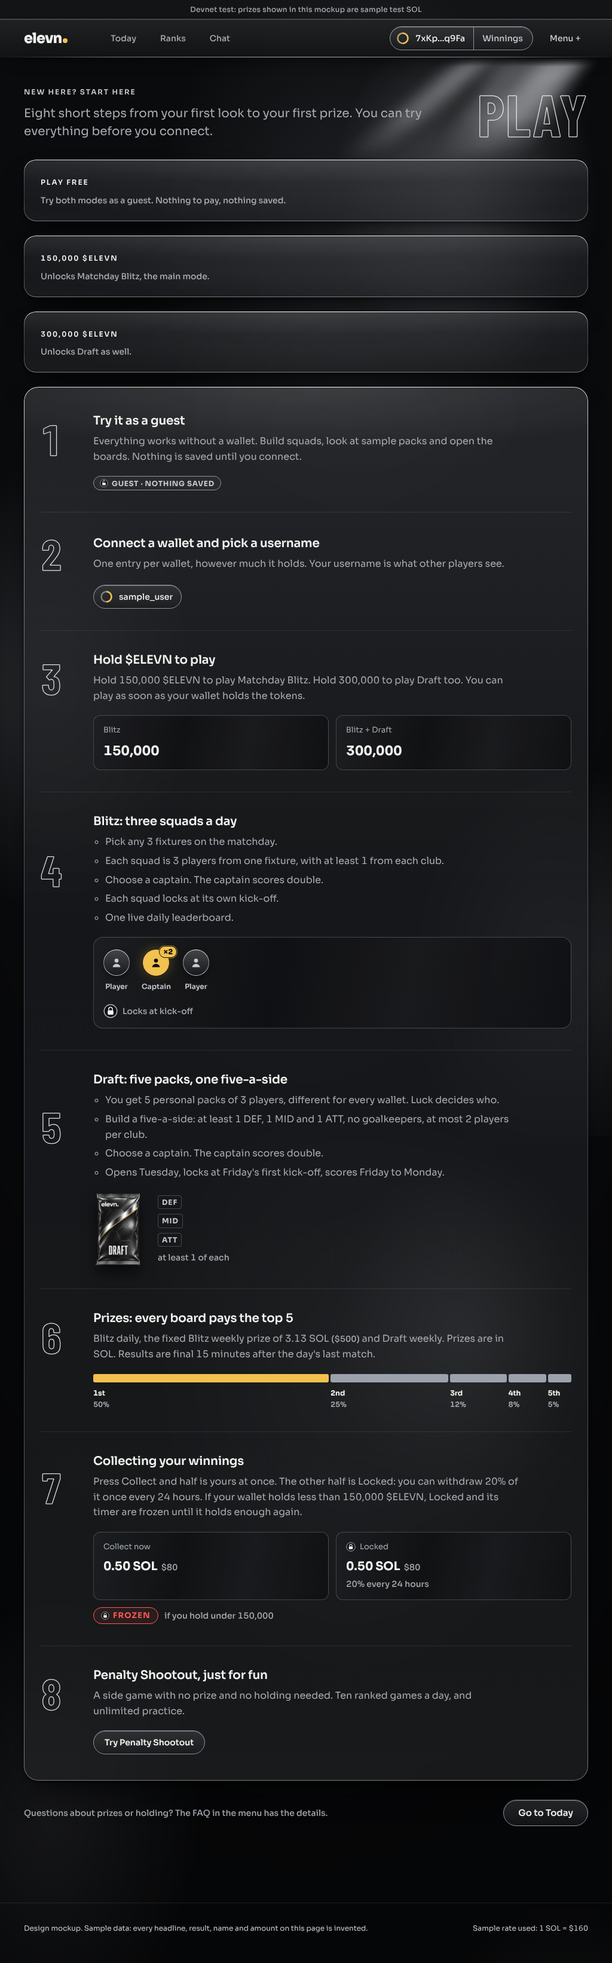
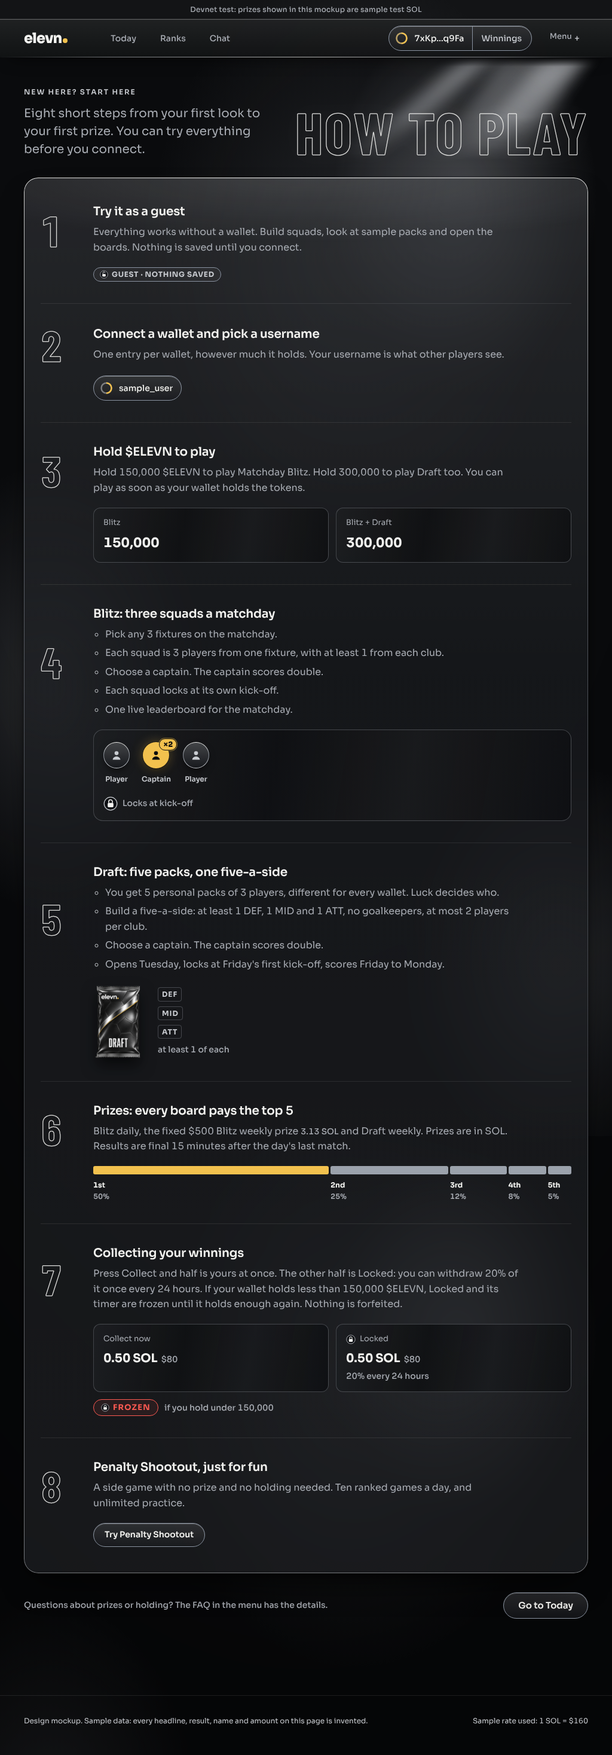
Mockups, work in progress: review changes to News, How to play and the side menu
Claude-Session: https://claude.ai/code/session_012GbKymxq8Mwy7J7Kp4CrmR

diff --git a/docs/design/mockups/how-to-play.html b/docs/design/mockups/how-to-play.html
@@ -2,23 +2,17 @@
 <html lang="en"><head><meta charset="utf-8"><meta name="viewport" content="width=device-width, initial-scale=1">
 <title>How to play · elevn mockup</title>
 <link rel="preconnect" href="https://fonts.googleapis.com"><link rel="preconnect" href="https://fonts.gstatic.com" crossorigin>
-<link rel="stylesheet" href="mock.css"><link rel="stylesheet" href="info-how.css"></head>
+<link rel="stylesheet" href="mock.css"><link rel="stylesheet" href="info-how.css"><link rel="stylesheet" href="menu.css"><script src="menu.js" defer></script></head>
 <body>
 <div class="devnet">Devnet test: prizes shown in this mockup are sample test SOL</div>
 <header class="nav"><div class="wrap">
-<a class="logo" href="index.html">elevn<i></i></a>
+<a class="logo" href="home.html">elevn<i></i></a>
 <nav class="links" aria-label="Main"><a href="today.html">Today</a><a href="ranks.html">Ranks</a><a href="chat.html">Chat</a></nav>
 <div class="right"><div class="wchip"><a href="#"><svg width="22" height="22" viewBox="0 0 22 22" role="img" aria-label="Blitz and Draft unlocked"><circle cx="11" cy="11" r="8.5" fill="none" stroke="rgba(255,255,255,.4)" stroke-width="2.5"/><path d="M11 2.5 A8.5 8.5 0 0 1 11 19.5" fill="none" stroke="#f2c14e" stroke-width="2.5"/><path d="M11 19.5 A8.5 8.5 0 0 1 11 2.5" fill="none" stroke="#f2c14e" stroke-width="2.5" stroke-dasharray="26.7" stroke-dashoffset="0" opacity=".55"/></svg><span>7xKp…q9Fa</span></a><a href="winnings.html">Winnings</a></div><a class="menu" href="#">Menu +</a></div>
 </div></header>
 <main class="wrap">
 <div class="rays" aria-hidden="true"><i></i><i></i><i></i><i></i><i></i></div>
-<div class="ph"><div><span class="eyebrow">New here? Start here</span><p class="lead">Eight short steps from your first look to your first prize. You can try everything before you connect.</p></div><div class="w"><h1 class="word">Play</h1></div></div>
-
-<div class="hw-facts" role="list">
-<div class="glass" role="listitem"><span class="eyebrow">Play free</span><p class="small">Try both modes as a guest. Nothing to pay, nothing saved.</p></div>
-<div class="glass" role="listitem"><span class="eyebrow">150,000 $ELEVN</span><p class="small">Unlocks Matchday Blitz, the main mode.</p></div>
-<div class="glass" role="listitem"><span class="eyebrow">300,000 $ELEVN</span><p class="small">Unlocks Draft as well.</p></div>
-</div>
+<div class="ph"><div><span class="eyebrow">New here? Start here</span><p class="lead">Eight short steps from your first look to your first prize. You can try everything before you connect.</p></div><div class="w"><h1 class="word">How to play</h1></div></div>
 
 <ol class="hw-steps card">
 
@@ -35,8 +29,8 @@
 <div class="hw-v"><div class="hw-tiers"><div><span class="lbl">Blitz</span><b>150,000</b></div><div><span class="lbl">Blitz + Draft</span><b>300,000</b></div></div></div></li>
 
 <li class="hw-step" id="s4"><span class="hw-n" aria-hidden="true">4</span>
-<div class="hw-t"><h2 class="h3">Blitz: three squads a day</h2>
-<ul class="hw-list muted"><li>Pick any 3 fixtures on the matchday.</li><li>Each squad is 3 players from one fixture, with at least 1 from each club.</li><li>Choose a captain. The captain scores double.</li><li>Each squad locks at its own kick-off.</li><li>One live daily leaderboard.</li></ul></div>
+<div class="hw-t"><h2 class="h3">Blitz: three squads a matchday</h2>
+<ul class="hw-list muted"><li>Pick any 3 fixtures on the matchday.</li><li>Each squad is 3 players from one fixture, with at least 1 from each club.</li><li>Choose a captain. The captain scores double.</li><li>Each squad locks at its own kick-off.</li><li>One live leaderboard for the matchday.</li></ul></div>
 <div class="hw-v"><div class="hw-sq"><span class="hw-tk"><span class="tok"></span><span class="nm">Player</span></span><span class="hw-tk"><span class="tok gold"><span class="cap">×2</span></span><span class="nm">Captain</span></span><span class="hw-tk"><span class="tok"></span><span class="nm">Player</span></span><span class="hw-lk"><span class="lock" aria-hidden="true"></span><span class="small muted">Locks at kick-off</span></span></div></div></li>
 
 <li class="hw-step" id="s5"><span class="hw-n" aria-hidden="true">5</span>
@@ -45,13 +39,13 @@
 <div class="hw-v"><div class="hw-pk"><img src="art/pack.png" alt="A Draft pack" width="84" height="126"><div class="hw-pos" aria-label="Positions needed"><span class="pos">DEF</span><span class="pos">MID</span><span class="pos">ATT</span><span class="small muted">at least 1 of each</span></div></div></div></li>
 
 <li class="hw-step" id="s6"><span class="hw-n" aria-hidden="true">6</span>
-<div class="hw-t"><h2 class="h3">Prizes: every board pays the top 5</h2><p class="muted">Blitz daily, the fixed Blitz weekly prize of 3.13 SOL <span class="usd" style="margin-left:0">($500)</span> and Draft weekly. Prizes are in SOL. Results are final 15 minutes after the day's last match.</p></div>
+<div class="hw-t"><h2 class="h3">Prizes: every board pays the top 5</h2><p class="muted">Blitz daily, the fixed $500 Blitz weekly prize <span class="usd" style="margin-left:0">3.13 SOL</span> and Draft weekly. Prizes are in SOL. Results are final 15 minutes after the day's last match.</p></div>
 <div class="hw-v"><div class="hw-split" role="img" aria-label="Prize split: 1st 50 percent, 2nd 25, 3rd 12, 4th 8, 5th 5">
 <div class="bar"><i style="flex:50"></i><i style="flex:25"></i><i style="flex:12"></i><i style="flex:8"></i><i style="flex:5"></i></div>
 <div class="lab"><span style="flex:50"><b>1st</b> 50%</span><span style="flex:25"><b>2nd</b> 25%</span><span style="flex:12"><b>3rd</b> 12%</span><span style="flex:8"><b>4th</b> 8%</span><span style="flex:5"><b>5th</b> 5%</span></div></div></div></li>
 
 <li class="hw-step" id="s7"><span class="hw-n" aria-hidden="true">7</span>
-<div class="hw-t"><h2 class="h3">Collecting your winnings</h2><p class="muted">Press Collect and half is yours at once. The other half is Locked: you can withdraw 20% of it once every 24 hours. If your wallet holds less than 150,000 $ELEVN, Locked and its timer are frozen until it holds enough again.</p></div>
+<div class="hw-t"><h2 class="h3">Collecting your winnings</h2><p class="muted">Press Collect and half is yours at once. The other half is Locked: you can withdraw 20% of it once every 24 hours. If your wallet holds less than 150,000 $ELEVN, Locked and its timer are frozen until it holds enough again. Nothing is forfeited.</p></div>
 <div class="hw-v"><div class="hw-col"><div><span class="lbl">Collect now</span><b>0.50 SOL<span class="usd">$80</span></b></div><div><span class="lbl"><span class="lock" aria-hidden="true"></span> Locked</span><b>0.50 SOL<span class="usd">$80</span></b><span class="small muted">20% every 24 hours</span></div></div><p class="hw-fz"><span class="badge frozen">Frozen</span><span class="small muted">if you hold under 150,000</span></p></div></li>
 
 <li class="hw-step" id="s8"><span class="hw-n" aria-hidden="true">8</span>
@@ -61,4 +55,4 @@
 </ol>
 <div class="hw-end"><p class="small muted">Questions about prizes or holding? The FAQ in the menu has the details.</p><a class="btn btn-line" href="today.html">Go to Today</a></div>
 </main>
-<footer class="foot-note"><div class="wrap"><span>Design mockup. Sample data: every headline, result, name and amount on this page is invented.</span><span>Sample rate used: 1 SOL = $160</span></div></footer></body></html>
+<footer class="foot-note"><div class="wrap"><span>Design mockup. Sample data: every headline, result, name and amount on this page is invented.</span><span>Sample rate used: 1 SOL = $160</span></div></footer><script src="guest.js"></script></body></html>

diff --git a/docs/design/mockups/menu.css b/docs/design/mockups/menu.css
@@ -1,12 +1,13 @@
 /* Side menu for the elevn mockups. Needs mock.css. Injected by menu.js. */
-.menu-btn { font: inherit; border: 0; background: none; cursor: pointer; display: inline-flex; align-items: center;  gap: 4px; height: 40px; font-size: 14px; font-weight: 500; color: var(--steel); padding: 0 12px; border-radius: 999px; transition: color 150ms var(--ease), background 150ms var(--ease); }
+.menu-btn { min-width: 78px; justify-content: center; font: inherit; border: 0; background: none; cursor: pointer; display: inline-flex; align-items: center;  gap: 4px; height: 40px; font-size: 14px; font-weight: 500; color: var(--steel); padding: 0 12px; border-radius: 999px; transition: color 150ms var(--ease), background 150ms var(--ease); }
 .menu-btn:hover, .menu-btn[aria-expanded="true"] { color: var(--text); background: rgba(255,255,255,.07); }
 body.menu-open .nav { z-index: 60; }
-.menu-scrim { position: fixed; inset: 0; z-index: 50; background: rgba(4,5,7,.62); opacity: 0; visibility: hidden; transition: opacity 240ms var(--ease), visibility 0s linear 240ms; }
+html.menu-lock { overflow: hidden; }
+.menu-scrim { position: fixed; inset: 0; z-index: 50; background: rgba(4,5,7,.62); opacity: 0; visibility: hidden; transition: opacity var(--dur-normal, 240ms) var(--ease), visibility 0s linear var(--dur-normal, 240ms); }
 .menu-panel { position: fixed; z-index: 55; top: var(--menu-top, 0px); right: 0; bottom: 0; width: min(420px, 100vw); display: flex; flex-direction: column; overflow-y: auto;
-  background: var(--glass), rgba(10,11,13,.90); backdrop-filter: var(--glass-blur); -webkit-backdrop-filter: var(--glass-blur);
+  background: var(--glass), rgba(10,11,13,.99); backdrop-filter: blur(22px); -webkit-backdrop-filter: blur(22px);
   box-shadow: inset 1px 0 0 var(--steel-edge), inset 0 1px 0 rgba(255,255,255,.2), -28px 0 56px -22px rgba(0,0,0,.8);
-  transform: translateX(100%); visibility: hidden; transition: transform 300ms var(--ease), visibility 0s linear 300ms; }
+  transform: translateX(100%); visibility: hidden; transition: transform var(--dur-normal, 300ms) var(--ease), visibility 0s linear var(--dur-normal, 300ms); }
 body.menu-open .menu-scrim { opacity: 1; visibility: visible; transition-delay: 0s; }
 body.menu-open .menu-panel { transform: none; visibility: visible; transition-delay: 0s; }
 .menu-panel .mp-in { padding: 24px 32px 24px; display: flex; flex-direction: column; flex: 1; min-height: min-content; }
@@ -17,27 +18,15 @@ body.menu-open .menu-panel { transform: none; visibility: visible; transition-de
 .menu-panel .mp-main .t { display: flex; align-items: center; gap: 12px; font-family: var(--font-display); font-weight: 700; text-transform: uppercase; letter-spacing: .03em; font-size: 34px; line-height: 1.05; color: var(--text); }
 .menu-panel .mp-main .d { display: block; margin-top: 2px; font-size: 14px; line-height: 1.45; color: var(--muted); }
 .menu-panel .mp-main a:hover { background: rgba(255,255,255,.05); }
-.menu-panel .here { margin-left: auto; display: inline-flex; align-items: center; gap: 8px; font-family: var(--font-sans); font-size: 11px; font-weight: 600; letter-spacing: .14em; text-transform: uppercase; color: var(--steel); }
+.menu-panel .here { margin-left: auto; display: inline-flex; align-items: center; gap: 8px; font-family: var(--font-sans); font-size: 12px; font-weight: 600; letter-spacing: .12em; text-transform: uppercase; color: var(--steel); }
 .menu-panel .here::before { content: ""; width: 7px; height: 7px; border-radius: 50%; background: var(--accent); }
-.menu-panel .mp-more { margin-top: 20px; }
-.menu-panel .mp-more .eyebrow { display: block; margin-bottom: 8px; }
-.menu-panel .mp-more a { display: flex; align-items: center; justify-content: space-between; gap: 12px; padding: 8px 12px; margin: 0 -12px; font-size: 15px; font-weight: 500; color: var(--steel); border-radius: 6px; }
-.menu-panel .mp-more a:hover { color: var(--text); }
-.menu-panel .mp-more .ext { font-size: 13px; font-weight: 400; color: var(--muted); }
-.menu-panel .mp-wallet { margin-top: auto; padding-top: 20px; }
-.menu-panel .mp-wallet > div { border-top: 1px solid var(--steel-edge); padding-top: 20px; flex-direction: column; align-items: flex-start; gap: 14px; }
-.menu-panel .mp-wallet p { margin: 0; font-size: 14px; color: var(--muted); }
-.menu-panel .mp-wallet .row { flex-direction: row; align-items: center; justify-content: space-between; gap: 12px; }
-.menu-panel .mp-wallet .chip { display: inline-flex; align-items: center; gap: 10px; height: 40px; padding: 0 16px 0 10px; border-radius: 999px; border: 1px solid var(--edge-control); font-size: 14px; font-weight: 500; }
-.menu-panel .mp-wallet .chip svg { flex: none; }
-.menu-panel .mp-wallet .plain { font-size: 14px; font-weight: 500; color: var(--steel); padding: 8px 10px; border-radius: 999px; text-decoration: underline; text-underline-offset: 3px; }
-.menu-panel .mp-wallet .plain:hover { color: var(--text); }
-/* connected / guest switching */
-.menu-panel [data-c], .menu-panel [data-g] { display: none; }
-.menu-panel.is-conn li[data-c] { display: block; }
-.menu-panel.is-conn div[data-c] { display: flex; }
-.menu-panel:not(.is-conn) div[data-g] { display: flex; }
+/* quiet row at the bottom */
+.menu-panel .mp-foot { margin-top: auto; padding-top: 20px; border-top: 1px solid var(--steel-edge); display: flex; gap: 24px; }
+.menu-panel .mp-foot a { display: inline-flex; align-items: center; gap: 8px; min-height: 40px; font-size: 14px; font-weight: 500; color: var(--steel); border-radius: 6px; }
+.menu-panel .mp-foot a:hover { color: var(--text); }
+.sr-only { position: absolute; width: 1px; height: 1px; overflow: hidden; clip: rect(0 0 0 0); white-space: nowrap; }
 .menu-panel a:focus-visible, .menu-panel button:focus-visible, .menu-btn:focus-visible { outline: 2px solid var(--accent); outline-offset: 3px; }
 .menu-panel .mp-main a:focus-visible { outline-offset: -3px; }
-@media (max-width: 700px) { .menu-btn { padding: 0 8px; } .menu-panel { width: 100vw; } .menu-panel .mp-in { padding: 24px 20px; } .menu-panel .mp-main .t { font-size: 30px; } }
+@media (max-width: 700px) { .menu-btn { min-width: 40px; padding: 0 10px; font-size: 20px; } .menu-btn .lbl { position: absolute; width: 1px; height: 1px; overflow: hidden; clip: rect(0 0 0 0); } .menu-panel { width: 100vw; } .menu-panel .mp-in { padding: 24px 20px; } .menu-panel .mp-main .t { font-size: 30px; } }
 @media (prefers-reduced-motion: reduce) { .menu-panel, .menu-scrim { transition: none !important; } }
+.menu-panel:focus, .menu-panel:focus-visible { outline: none; }

diff --git a/docs/design/mockups/menu.js b/docs/design/mockups/menu.js
@@ -4,7 +4,7 @@
   var old = document.querySelector('.nav .right a.menu'); if (!old) return;
   var btn = document.createElement('button');
   btn.type = 'button'; btn.className = 'menu-btn'; btn.setAttribute('aria-expanded', 'false'); btn.setAttribute('aria-controls', 'side-menu'); btn.setAttribute('aria-haspopup', 'dialog');
-  var LABEL_OPEN = 'Menu <span aria-hidden="true">+</span>', LABEL_CLOSE = 'Close <span aria-hidden="true">×</span>';
+  var LABEL_OPEN = '<span class="lbl">Menu </span><span aria-hidden="true">+</span>', LABEL_CLOSE = '<span class="lbl">Close </span><span aria-hidden="true">×</span>';
   btn.innerHTML = LABEL_OPEN;
   old.replaceWith(btn);
 
@@ -24,26 +24,12 @@
   var scrim = document.createElement('div'); scrim.className = 'menu-scrim'; scrim.setAttribute('aria-hidden', 'true');
   var p = document.createElement('div'); p.className = 'menu-panel'; p.id = 'side-menu';
   p.setAttribute('role', 'dialog'); p.setAttribute('aria-modal', 'true'); p.setAttribute('aria-label', 'Menu'); p.tabIndex = -1;
-  p.innerHTML = '<div class="mp-in"><p class="mp-title" aria-hidden="true">Menu</p>' +
+  p.innerHTML = '<div class="mp-in">' +
     '<nav aria-label="Menu"><ul class="mp-main">' + main + '</ul></nav>' +
-    '<div class="mp-more"><span class="eyebrow">More</span><ul>' +
-    '<li><a href="shootout.html"' + here('shootout.html') + '>Penalty Shootout' + mark('shootout.html') + '</a></li>' +
-    '<li data-c><a href="winnings.html"' + here('winnings.html') + '>Winnings' + mark('winnings.html') + '</a></li>' +
-    '<li><a href="https://x.com/" target="_blank" rel="noopener">X <span class="ext">Opens in a new tab ↗</span></a></li></ul></div>' +
-    '<div class="mp-wallet">' +
-    '<div data-g><p>You\'re browsing as a guest</p><a class="btn btn-line" href="connect.html">Connect wallet</a></div>' +
-    '<div data-c class="row"><span class="chip"></span><a class="plain" href="today.html#guest">Disconnect</a></div></div></div>';
+    '<div class="mp-foot"><a href="shootout.html"' + here('shootout.html') + '>Penalty Shootout' + mark('shootout.html') + '</a><a href="https://x.com/" target="_blank" rel="noopener">X<span class="sr-only"> (opens in a new tab)</span> <span aria-hidden="true">↗</span></a></div></div>';
   document.body.appendChild(scrim); document.body.appendChild(p);
   var nav = document.querySelector('header.nav'), isOpen = false;
 
-  function connected() { return !document.body.classList.contains('guest') && !!document.querySelector('.nav .right .wchip'); }
-  function sync() {
-    var c = connected(); p.classList.toggle('is-conn', c);
-    if (c) {
-      var w = document.querySelector('.nav .right .wchip'), s = w.querySelector('span'), sv = w.querySelector('svg');
-      p.querySelector('.chip').innerHTML = (sv ? sv.outerHTML : '') + '<span>' + (s ? s.textContent : '') + '</span>';
-    }
-  }
   function focusables() {
     return [].slice.call(p.querySelectorAll('a[href], button')).filter(function (e) { return e.getClientRects().length > 0; });
   }
@@ -53,19 +39,19 @@
     var h = parts.length ? '#' + parts.join('-') : '';
     if (h !== location.hash) history.replaceState(null, '', location.pathname + location.search + h);
   }
-  function open(fromHash) {
-    if (isOpen) return; isOpen = true; sync();
+  function open(fromHash, byKey) {
+    if (isOpen) return; isOpen = true;
     p.style.setProperty('--menu-top', Math.max(0, nav.getBoundingClientRect().bottom) + 'px');
-    document.body.classList.add('menu-open'); btn.setAttribute('aria-expanded', 'true'); btn.innerHTML = LABEL_CLOSE;
+    document.documentElement.classList.add('menu-lock'); document.body.classList.add('menu-open'); btn.setAttribute('aria-expanded', 'true'); btn.innerHTML = LABEL_CLOSE;
     if (!fromHash) setHash(true);
-    var f = focusables(); (f[0] || p).focus({ preventScroll: true });
+    var f = focusables(); (byKey && f[0] ? f[0] : p).focus({ preventScroll: true });
   }
   function close(noFocus) {
     if (!isOpen) return; isOpen = false;
-    document.body.classList.remove('menu-open'); btn.setAttribute('aria-expanded', 'false'); btn.innerHTML = LABEL_OPEN;
+    document.documentElement.classList.remove('menu-lock'); document.body.classList.remove('menu-open'); btn.setAttribute('aria-expanded', 'false'); btn.innerHTML = LABEL_OPEN;
     setHash(false); if (!noFocus) btn.focus();
   }
-  btn.addEventListener('click', function () { isOpen ? close() : open(); });
+  btn.addEventListener('click', function (e) { isOpen ? close() : open(false, e.detail === 0); });
   scrim.addEventListener('click', function () { close(); });
   document.addEventListener('keydown', function (e) {
     if (!isOpen) return;
@@ -77,7 +63,7 @@
   });
   function fromHash() {
     var want = location.hash.replace('#', '').split('-').indexOf('menu') > -1;
-    if (want && !isOpen) open(true); else if (!want && isOpen) close(true); else if (isOpen) sync();
+    if (want && !isOpen) open(true); else if (!want && isOpen) close(true); 
   }
   window.addEventListener('hashchange', fromHash); fromHash();
 })();

diff --git a/docs/design/mockups/news.html b/docs/design/mockups/news.html
@@ -2,11 +2,11 @@
 <html lang="en"><head><meta charset="utf-8"><meta name="viewport" content="width=device-width, initial-scale=1">
 <title>News · elevn mockup</title>
 <link rel="preconnect" href="https://fonts.googleapis.com"><link rel="preconnect" href="https://fonts.gstatic.com" crossorigin>
-<link rel="stylesheet" href="mock.css"><link rel="stylesheet" href="info-news.css"></head>
+<link rel="stylesheet" href="mock.css"><link rel="stylesheet" href="info-news.css"><link rel="stylesheet" href="menu.css"><script src="menu.js" defer></script></head>
 <body>
 <div class="devnet">Devnet test: prizes shown in this mockup are sample test SOL</div>
 <header class="nav"><div class="wrap">
-<a class="logo" href="index.html">elevn<i></i></a>
+<a class="logo" href="home.html">elevn<i></i></a>
 <nav class="links" aria-label="Main"><a href="today.html">Today</a><a href="ranks.html">Ranks</a><a href="chat.html">Chat</a></nav>
 <div class="right"><div class="wchip"><a href="#"><svg width="22" height="22" viewBox="0 0 22 22" role="img" aria-label="Blitz and Draft unlocked"><circle cx="11" cy="11" r="8.5" fill="none" stroke="rgba(255,255,255,.4)" stroke-width="2.5"/><path d="M11 2.5 A8.5 8.5 0 0 1 11 19.5" fill="none" stroke="#f2c14e" stroke-width="2.5"/><path d="M11 19.5 A8.5 8.5 0 0 1 11 2.5" fill="none" stroke="#f2c14e" stroke-width="2.5" stroke-dasharray="26.7" stroke-dashoffset="0" opacity=".55"/></svg><span>7xKp…q9Fa</span></a><a href="winnings.html">Winnings</a></div><a class="menu" href="#">Menu +</a></div>
 </div></header>
@@ -21,7 +21,6 @@
 <button class="fchip" type="button" aria-pressed="false" data-f="ll">La Liga</button>
 <button class="fchip" type="button" aria-pressed="false" data-f="bl">Bundesliga</button>
 </div>
-<p class="small muted nw-key"><span class="kd k-w">Our write-up</span><span class="kd k-d">elevn match data</span><span class="kd k-h">Headline</span></p>
 </div>
 
 <article class="glass nw-lead" data-l="pl">
@@ -33,14 +32,13 @@
 </div>
 <div class="nw-lead-side" aria-label="Matchday figures">
 <span class="eyebrow">Result</span>
-<div class="nw-score"><span>Away side</span><b>2</b><i>–</i><b>1</b><span>Home side</span></div>
+<div class="nw-score"><span>Home side</span><b>1</b><i>–</i><b>2</b><span>Away side</span></div>
 <span class="badge ft">Full time</span>
 <p class="small muted">Sample fixture. Names are placeholders.</p>
 </div>
 </article>
 
-<div class="g nw-grid">
-<div class="col" style="--n:6"><div class="stack" style="--gap:24px" id="colA">
+<div class="nw-flow" id="flow">
 
 <article class="card nw-item w" data-l="ll">
 <div class="nw-meta"><span class="kind k-w">Our write-up</span><span class="lg">La Liga</span><span class="tm">3 hours ago</span></div>
@@ -78,8 +76,7 @@
 <p class="nw-src"><span>Sky Sports</span><span class="tm">Yesterday</span></p>
 </article>
 
-</div></div>
-<div class="col" style="--n:6"><div class="stack" style="--gap:24px" id="colB">
+
 
 <article class="card nw-item h" data-l="pl">
 <div class="nw-meta"><span class="kind k-h">Headline</span><span class="lg">Premier League</span></div>
@@ -120,7 +117,7 @@
 </ul>
 </article>
 
-</div></div></div>
+</div>
 <p class="small muted nw-end">Showing the latest items. Every write-up names its source and links to it; headlines link out to the publisher. Nothing here is a copy of an article.</p>
 </main>
 <footer class="foot-note"><div class="wrap"><span>Design mockup. Sample data: every headline, result, name and amount on this page is invented.</span><span>Sample rate used: 1 SOL = $160</span></div></footer>
@@ -128,4 +125,4 @@
 document.querySelectorAll('.fchip').forEach(function(b){b.addEventListener('click',function(){
  document.querySelectorAll('.fchip').forEach(function(x){x.setAttribute('aria-pressed',x===b?'true':'false')});
  var f=b.dataset.f;document.querySelectorAll('[data-l]').forEach(function(e){e.hidden=!(f==='all'||e.dataset.l===f)});});});
-</script></body></html>
+</script><script src="guest.js"></script></body></html>

diff --git a/docs/design/mockups/mock.css b/docs/design/mockups/mock.css
@@ -135,7 +135,7 @@ h1.word { font-weight: 700; letter-spacing: .02em; line-height: .84; }
 .devnet { background: rgba(255,255,255,.04); border-bottom: 1px solid var(--line); color: var(--muted); font-size: 12px; font-weight: 500; text-align: center; padding: 6px 0; letter-spacing: .02em; }
 .nav { position: sticky; top: 0; z-index: 20; height: 64px; background: linear-gradient(180deg, rgba(255,255,255,.09), rgba(255,255,255,.03)), rgba(10,11,13,.80); box-shadow: inset 0 1px 0 rgba(255,255,255,.28), 0 14px 30px -18px rgba(0,0,0,.9); }
 .nav .wrap { height: 100%; display: flex; align-items: center; }
-.logo { font-size: 24px; font-weight: 800; letter-spacing: -.04em; display: inline-flex; align-items: baseline; }
+.logo { padding: 1px 0; margin: -1px 0; font-size: 24px; font-weight: 800; letter-spacing: -.04em; display: inline-flex; align-items: baseline; }
 .logo i { display: inline-block; width: 8px; height: 8px; border-radius: 50%; background: var(--accent); margin-left: 2px; }
 .nav .links { display: flex; gap: 8px; margin-left: 56px; }
 .nav .links a { position: relative; display: inline-flex; align-items: center; height: 40px; font-size: 14px; font-weight: 500; color: var(--muted); padding: 0 16px; border-radius: 999px; transition: color 150ms var(--ease), background 150ms var(--ease); }
@@ -519,7 +519,7 @@ a[aria-current="page"] { }
 [hidden] { display: none !important; }
 
 /* wallet chip: the address and a small Winnings entry in one pill */
-.wchip { display: inline-flex; height: 40px; border-radius: 999px; border: 1px solid var(--edge-control); overflow: hidden;
+.wchip { display: inline-flex; height: 42px; border-radius: 999px; border: 1px solid var(--edge-control); overflow: hidden;
   background: linear-gradient(180deg, rgba(255,255,255,.12), rgba(255,255,255,.04)), rgba(13,15,19,.6); box-shadow: inset 0 1px 0 rgba(255,255,255,.3); }
 .wchip a { display: inline-flex; align-items: center; gap: 10px; font-size: 14px; font-weight: 500; padding: 0 14px 0 10px; transition: background 150ms var(--ease), color 150ms var(--ease); }
 .wchip a + a { border-left: 1px solid var(--edge-control); padding: 0 16px 0 14px; color: var(--steel); }
@@ -646,7 +646,7 @@ main:has(> .rays) { position: relative; }   /* the rays sit inside <main>, so th
 .rays i:nth-child(4) { left: 88%; width: 120px; transform: rotate(33deg); opacity: .46; animation: ray 52s ease-in-out -4s infinite alternate; }
 .rays i:nth-child(5) { left: 95%; width: 48px; transform: rotate(42deg); opacity: .58; animation: ray 41s ease-in-out -14s infinite alternate; }
 @keyframes ray { from { translate: -18px 0; } to { translate: 22px 0; } }
-@media (prefers-reduced-motion: reduce) { .rays i { animation: none; } }
+@media (prefers-reduced-motion: reduce) { .rays i:nth-child(n) { animation: none; } }
 
 @media (max-width: 1100px) { .wfigs { grid-template-columns: 1fr; } .fig { border-left: 0; border-top: 1px solid var(--line); padding: 24px; } .fig:first-child { border-top: 0; } .wcols { grid-template-columns: 1fr; } .wcols > div + div { border-left: 0; border-top: 1px solid var(--line); } .wcols > div { padding: 24px; } .wbar { padding: 16px 24px; } .wbar .hint { margin-left: 0; text-align: left; } .wnote { margin: 0 24px 24px; flex-wrap: wrap; } .rays i:nth-child(-n+2) { display: none; } }
 @media (max-width: 700px) { .wchip a + a { padding: 0 12px 0 10px; } .hrow { grid-template-columns: 1fr auto; row-gap: 6px; } .hrow .dt { grid-column: 1 / -1; order: 3; } .strip { flex-wrap: wrap; gap: 6px 12px; } .strip .msg { flex: 1 1 100%; } .msg { grid-template-columns: 1fr; gap: 4px; } .nav .right .btn-gold { padding: 0 14px; } .banner { text-align: left; } .composer { flex-wrap: wrap; }  }

diff --git a/docs/design/mockups/info-news.css b/docs/design/mockups/info-news.css
@@ -49,7 +49,7 @@
 
 .nw-rank { list-style: none; margin: 8px 0 0; padding: 0; }
 .nw-rank li { display: grid; grid-template-columns: 28px 1fr auto; gap: 12px; align-items: center; padding: 12px 0; border-top: 1px solid var(--line); font-size: 15px; }
-.nw-rank .r { font-weight: 700; color: var(--accent); }
+.nw-rank .r { font-weight: 700; color: var(--steel); }
 .nw-rank .n { font-weight: 600; }
 .nw-rank small { display: block; font-size: 13px; font-weight: 400; color: var(--muted); }
 .nw-rank .v { text-align: right; font-weight: 700; }
@@ -72,3 +72,15 @@
   .nw-grid .col { margin-bottom: 0; }
   .nw-end { margin-bottom: 64px; }
 }
+
+.ph .lead { max-width: 44ch; }
+.nw-lead-side .badge { align-self: flex-start; }
+.nw-flow { column-count: 2; column-gap: 24px; }
+.nw-flow > article { break-inside: avoid; margin: 0 0 24px; }
+.nw-item.h { position: relative; min-height: 64px; }
+.nw-hl::after { content: ""; position: absolute; inset: 0; border-radius: 12px; }
+.nw-hl:focus-visible { outline: none; }
+.nw-item.h:focus-within { outline: 2px solid var(--accent); outline-offset: 3px; }
+.nw-item.h:hover { border-color: var(--steel); }
+@media (max-width: 1100px) { .nw-flow { column-count: 1; } }
+@media (max-width: 1100px) { .ph .lead { max-width: 30ch; } }

diff --git a/docs/design/mockups/connect.html b/docs/design/mockups/connect.html
@@ -7,7 +7,7 @@
 <div class="devnet">Devnet test: prizes shown in this mockup are sample test SOL</div>
 <header class="nav"><div class="wrap">
 <a class="logo" href="home.html">elevn<i></i></a>
-<nav class="links" aria-label="Main"><a href="today.html" class="cur" aria-current="page">Today</a><a href="ranks.html">Ranks</a><a href="chat.html">Chat</a></nav>
+<nav class="links" aria-label="Main"><a href="today.html">Today</a><a href="ranks.html">Ranks</a><a href="chat.html">Chat</a></nav>
 <div class="right"><div class="wchip"><a href="#"><svg width="22" height="22" viewBox="0 0 22 22" role="img" aria-label="Blitz and Draft unlocked"><circle cx="11" cy="11" r="8.5" fill="none" stroke="rgba(255,255,255,.4)" stroke-width="2.5"/><path d="M11 2.5 A8.5 8.5 0 0 1 11 19.5" fill="none" stroke="#f2c14e" stroke-width="2.5"/><path d="M11 19.5 A8.5 8.5 0 0 1 11 2.5" fill="none" stroke="#f2c14e" stroke-width="2.5" stroke-dasharray="26.7" stroke-dashoffset="0" opacity=".55"/></svg><span>7xKp…q9Fa</span></a><a href="winnings.html">Winnings</a></div><a class="menu" href="#">Menu +</a></div>
 </div></header>
 <main class="wrap" inert aria-hidden="true" style="opacity:.32;pointer-events:none">

diff --git a/docs/design/mockups/shootout.html b/docs/design/mockups/shootout.html
@@ -7,7 +7,7 @@
 <div class="devnet">Devnet test: prizes shown in this mockup are sample test SOL</div>
 <header class="nav"><div class="wrap">
 <a class="logo" href="home.html">elevn<i></i></a>
-<nav class="links" aria-label="Main"><a href="today.html" class="cur" aria-current="page">Today</a><a href="ranks.html">Ranks</a><a href="chat.html">Chat</a></nav>
+<nav class="links" aria-label="Main"><a href="today.html">Today</a><a href="ranks.html">Ranks</a><a href="chat.html">Chat</a></nav>
 <div class="right"><div class="wchip"><a href="#"><svg width="22" height="22" viewBox="0 0 22 22" role="img" aria-label="Blitz and Draft unlocked"><circle cx="11" cy="11" r="8.5" fill="none" stroke="rgba(255,255,255,.4)" stroke-width="2.5"/><path d="M11 2.5 A8.5 8.5 0 0 1 11 19.5" fill="none" stroke="#f2c14e" stroke-width="2.5"/><path d="M11 19.5 A8.5 8.5 0 0 1 11 2.5" fill="none" stroke="#f2c14e" stroke-width="2.5" stroke-dasharray="26.7" stroke-dashoffset="0" opacity=".55"/></svg><span>7xKp…q9Fa</span></a><a href="winnings.html">Winnings</a></div><a class="menu" href="#">Menu +</a></div>
 </div></header>
 <main class="wrap" style="padding-bottom:128px">

diff --git a/docs/design/mockups/info-how.css b/docs/design/mockups/info-how.css
@@ -54,3 +54,6 @@
   .hw-pk { gap: 16px; }
 }
 .hw-col b { white-space: nowrap; font-size: 20px; } .hw-col .usd { font-size: 14px; }
+.ph .lead { max-width: 44ch; }
+@media (max-width: 1100px) { .ph .lead { max-width: 30ch; } }
+@media (max-width: 700px) { .ph .lead { max-width: none; } h1.word { font-size: 52px; } }
